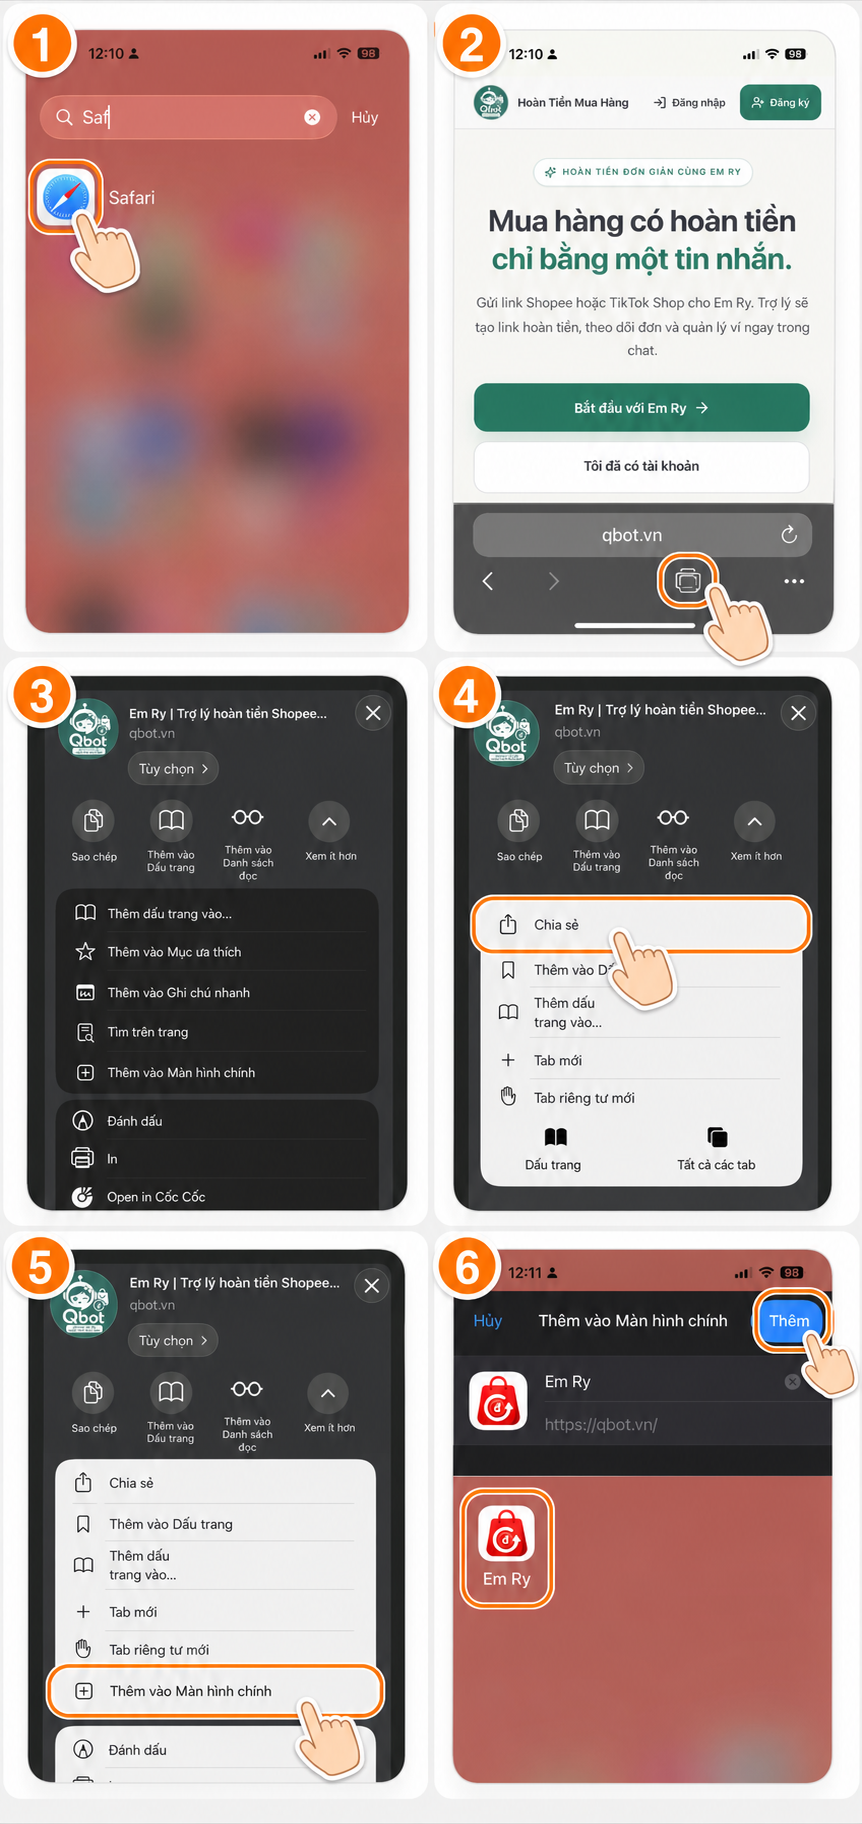
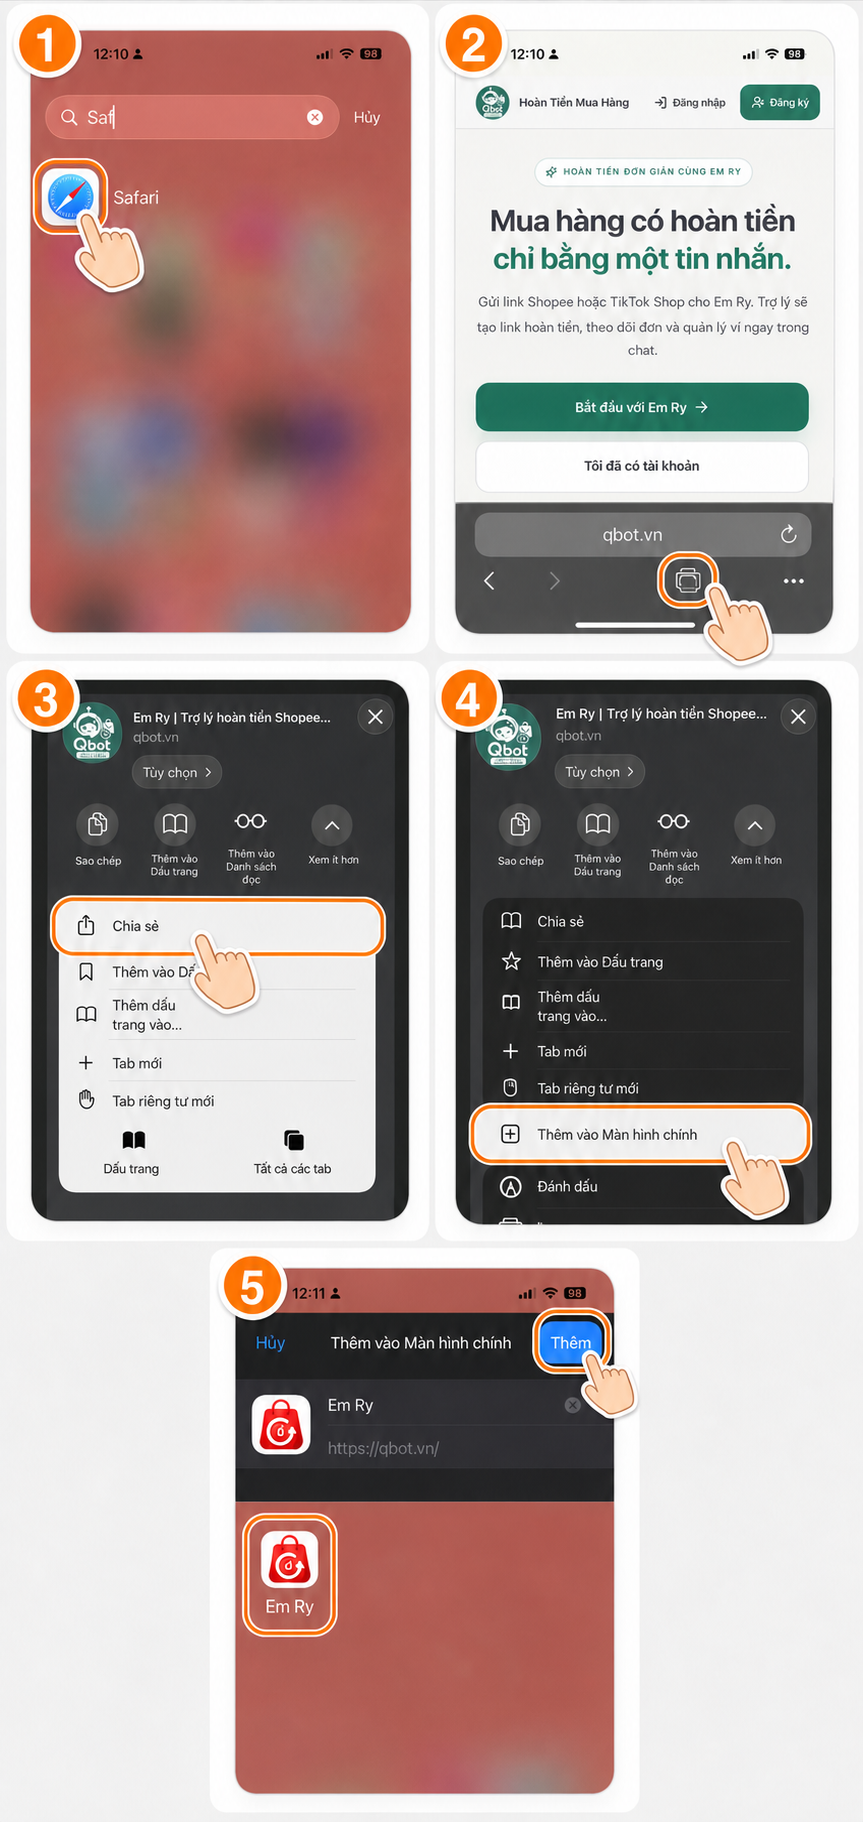
fix: simplify iPhone install guide to five steps

diff --git a/src/components/install-app-prompt.tsx b/src/components/install-app-prompt.tsx
@@ -96,10 +96,10 @@ export function InstallAppPrompt() {
               <p className="flex items-center gap-2"><Check className="h-5 w-5 shrink-0 text-[#287a63]" /> Không mất phí cài đặt</p>
               <p className="flex items-center gap-2"><Check className="h-5 w-5 shrink-0 text-[#287a63]" /> Chạm biểu tượng để mở nhanh</p>
             </div>
-            {isIos ? <p className="mt-4 rounded-xl bg-[#f1f7f4] p-3 text-sm leading-6 text-neutral-700">iPhone không có nút cài tự động. Hãy xem hình và làm theo <strong>6 bước đơn giản</strong>.</p> : null}
+            {isIos ? <p className="mt-4 rounded-xl bg-[#f1f7f4] p-3 text-sm leading-6 text-neutral-700">iPhone không có nút cài tự động. Hãy xem hình và làm lần lượt theo hướng dẫn.</p> : null}
             <button type="button" onClick={install} className="mt-6 inline-flex h-14 w-full items-center justify-center gap-2 rounded-2xl bg-[#287a63] px-5 text-base font-bold text-white shadow-lg">
               {isIos ? <Smartphone className="h-5 w-5" /> : <Download className="h-5 w-5" />}
-              {isIos ? "Xem 6 bước cài trên iPhone" : "Cài đặt ngay"}
+              {isIos ? "Xem cách cài trên iPhone" : "Cài đặt ngay"}
             </button>
             <button type="button" onClick={close} className="mt-2 h-12 w-full rounded-xl text-sm font-semibold text-neutral-500">Để sau</button>
           </>
@@ -111,7 +111,7 @@ export function InstallAppPrompt() {
                 <p className="mt-1 text-sm leading-6 text-neutral-600">Mỗi bước chỉ cần chạm vào chỗ có vòng màu cam.</p>
                 <img
                   src="/images/tutorials/install-iphone-pwa.png"
-                  alt="Sáu bước thêm Em Ry vào màn hình chính trên iPhone"
+                  alt="Cách thêm Em Ry vào màn hình chính trên iPhone"
                   className="mt-4 h-auto w-full rounded-2xl border border-neutral-200"
                 />
                 <ol className="mt-4 grid gap-2">

diff --git a/src/components/chat-app.tsx b/src/components/chat-app.tsx
@@ -2166,9 +2166,9 @@ function InstallGuideCard() {
     <div className="w-full overflow-hidden rounded-2xl rounded-bl-md border border-[#d6e4de] bg-white shadow-sm">
       <div className="bg-[#f1f7f4] px-4 py-3">
         <h2 className="text-sm font-bold text-[#216653]">Cài Em Ry trên iPhone</h2>
-        <p className="mt-1 text-xs leading-5 text-neutral-600">Miễn phí, không tốn dung lượng. Làm lần lượt 6 bước, chạm vào vị trí có vòng màu cam.</p>
+        <p className="mt-1 text-xs leading-5 text-neutral-600">Miễn phí, không tốn dung lượng. Xem hình và chạm vào vị trí có vòng màu cam.</p>
       </div>
-      <img src="/images/tutorials/install-iphone-pwa.png" alt="Sáu bước thêm Em Ry vào màn hình chính iPhone" className="h-auto w-full border-y border-neutral-100" />
+      <img src="/images/tutorials/install-iphone-pwa.png" alt="Cách thêm Em Ry vào màn hình chính iPhone" className="h-auto w-full border-y border-neutral-100" />
       <ol className="grid gap-1.5 p-3">
         {steps.map((step, index) => (
           <li key={step} className="flex items-start gap-2 rounded-xl bg-neutral-50 px-2.5 py-2">
